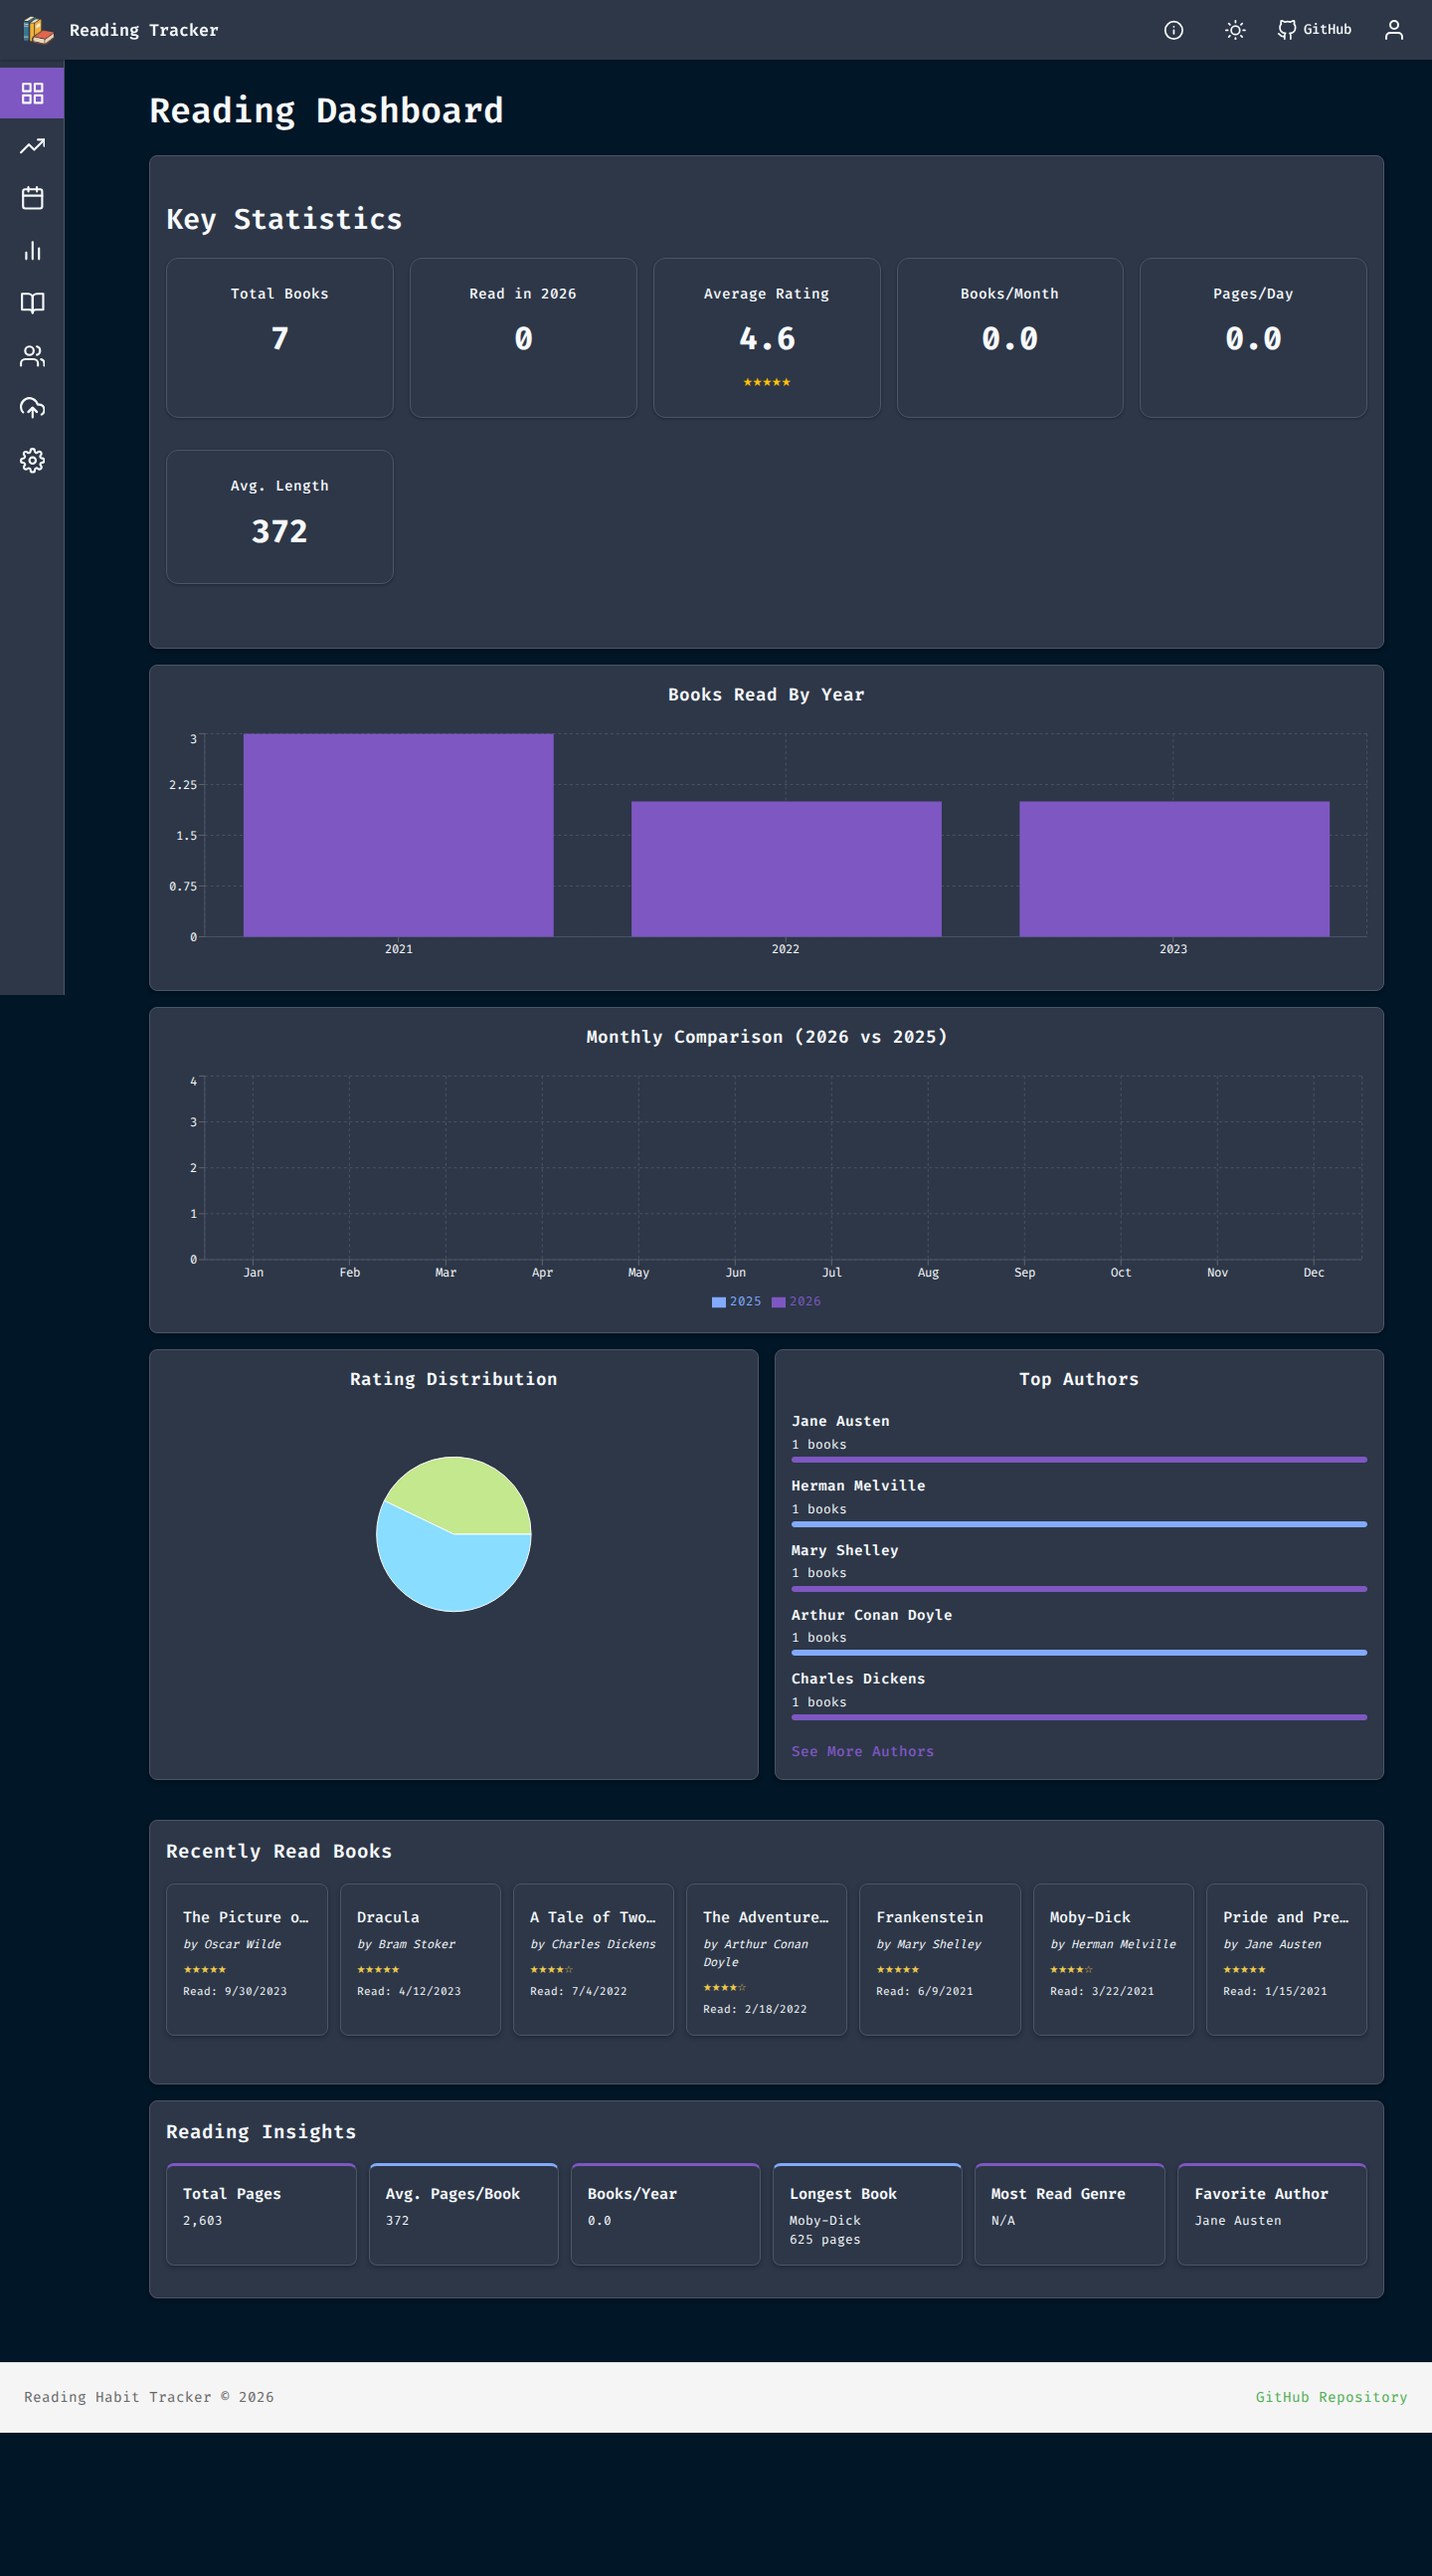
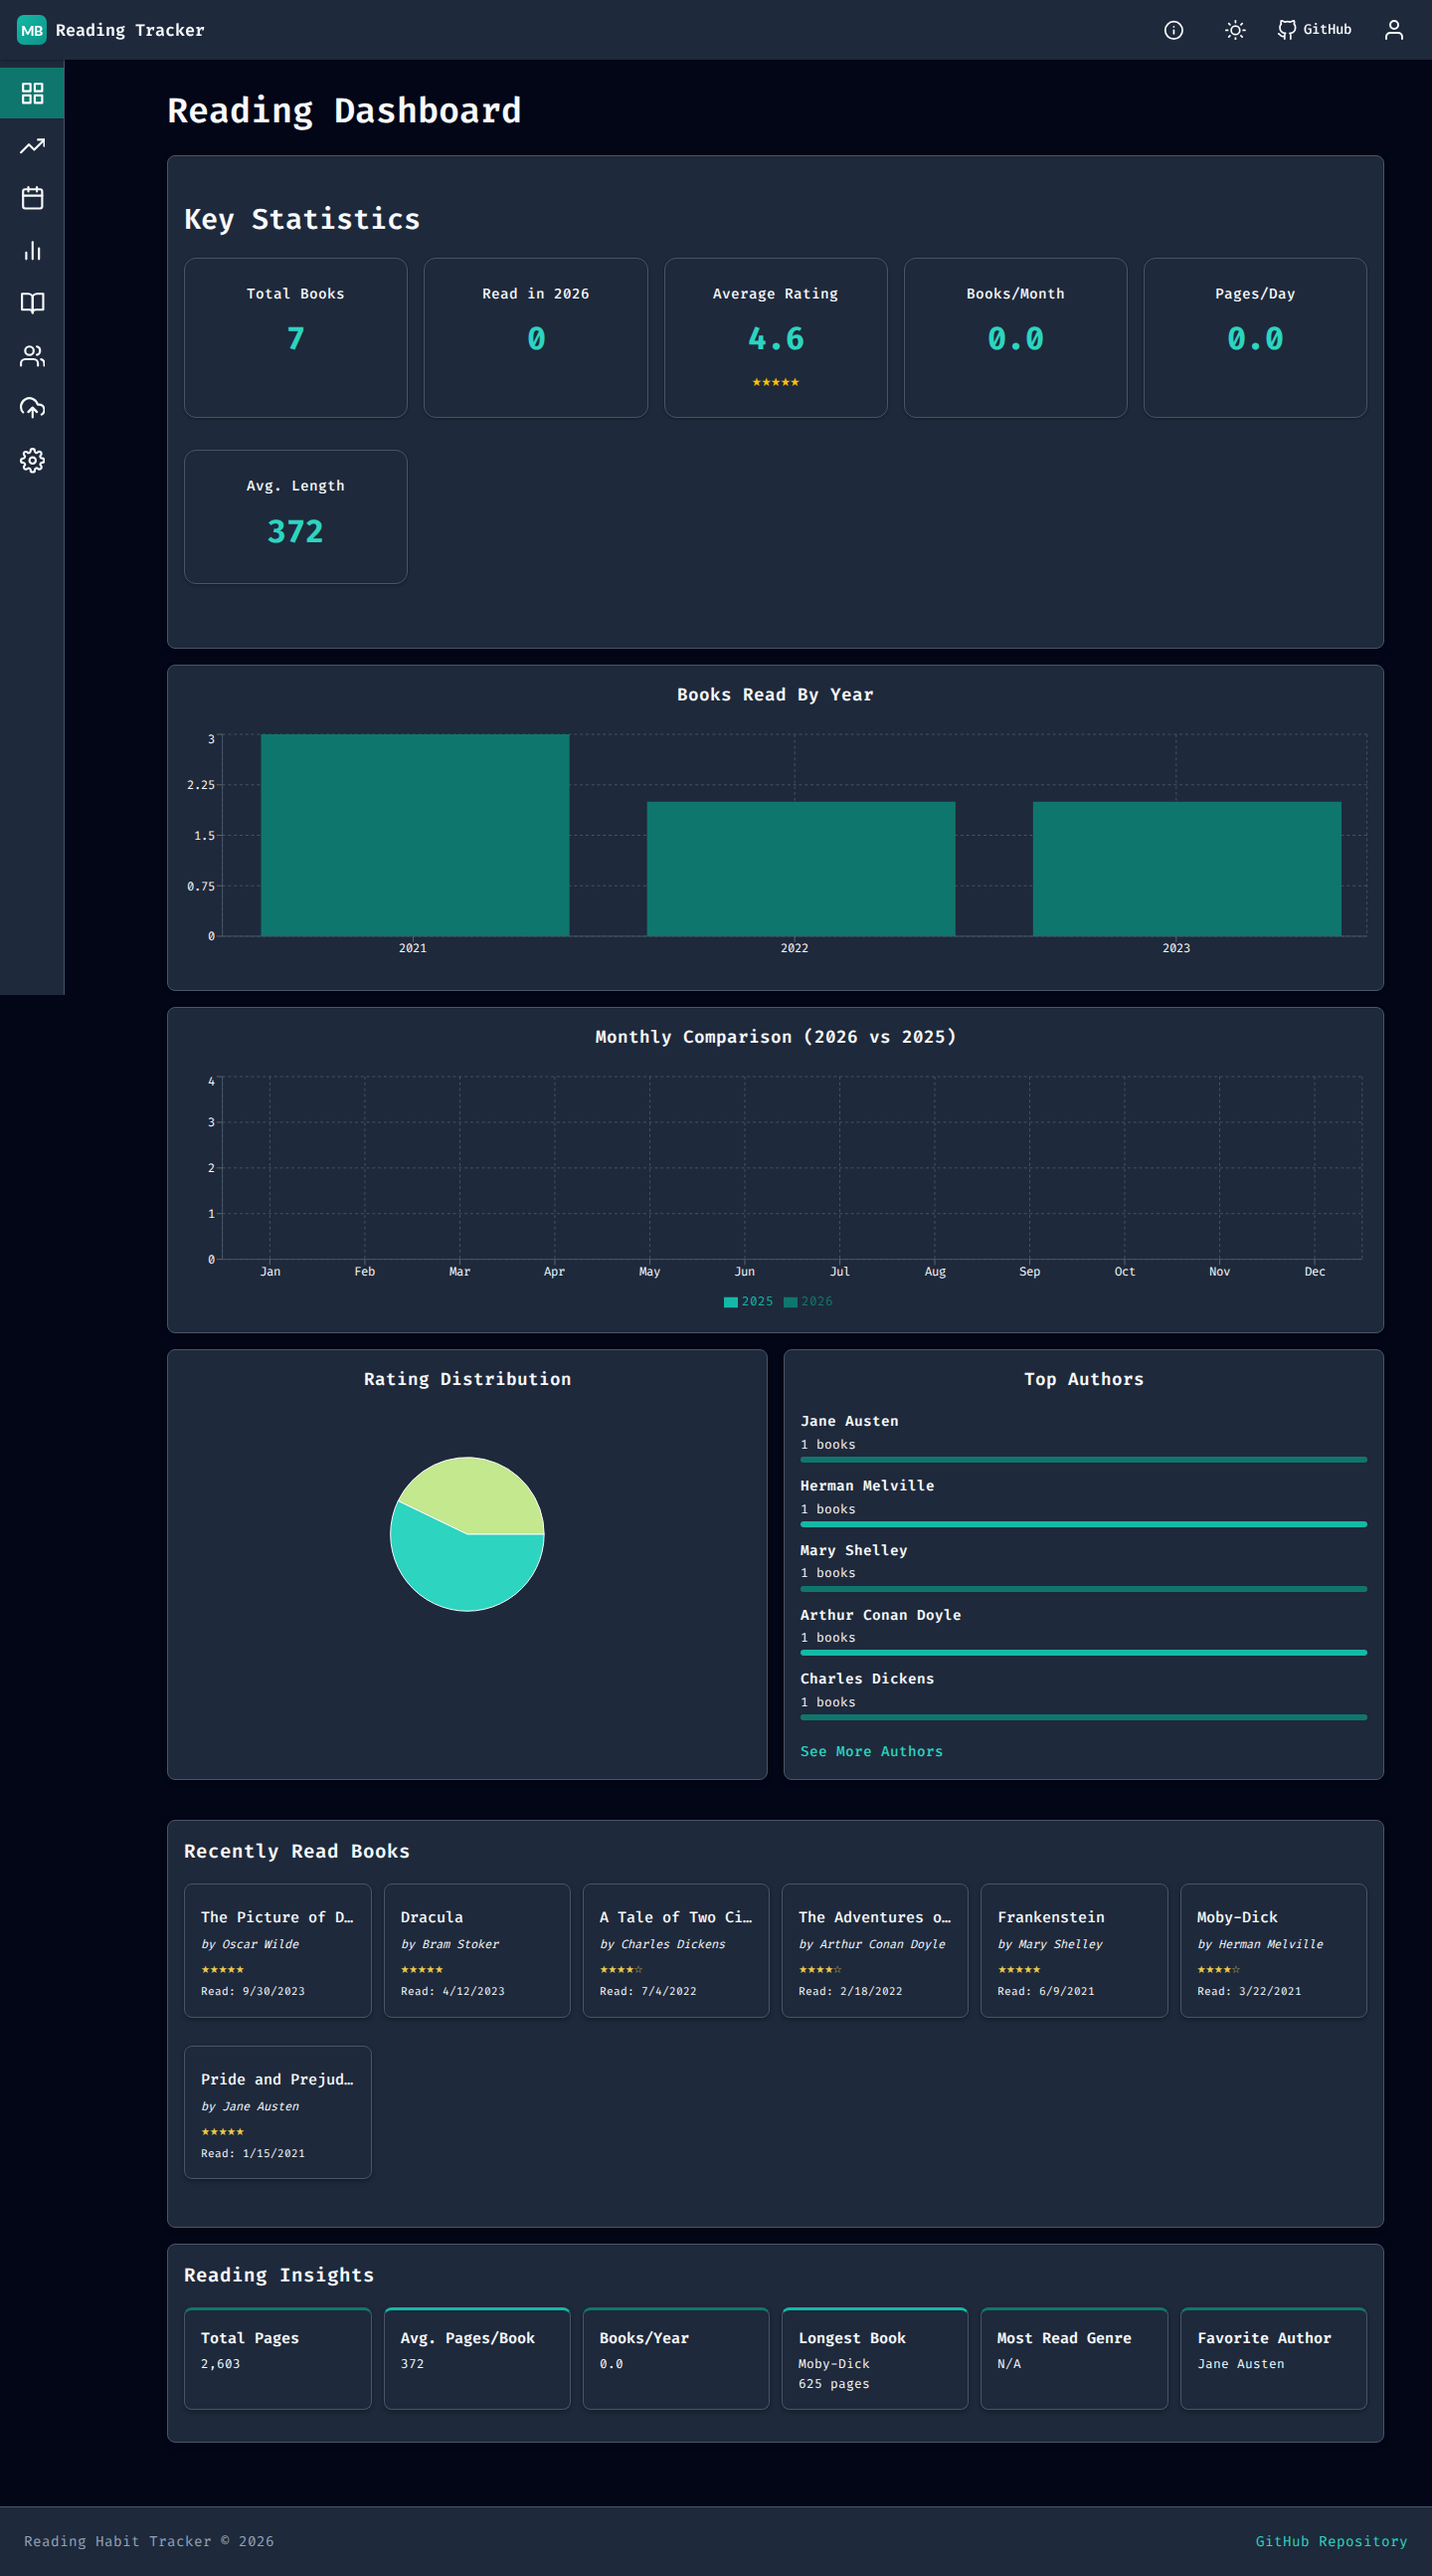
docs: recapture README screenshots in the teal UI
The three README images still showed the Night Owl purple theme. Recaptured
them from the synthetic Goodreads fixture with CAPTURE_SCREENSHOTS=1.

diff --git a/CHANGELOG.md b/CHANGELOG.md
@@ -8,6 +8,8 @@
   teal-400 links in dark mode, and teal-700 links in light mode.
 - Logo and favicons are the rounded teal tile with the MB mark
   (`#14B8A6` → `#0D9488`). `theme-color` is `#0D9488`.
+- README screenshots recaptured from the synthetic Goodreads fixture so the
+  dark dashboard, light dashboard, and monthly progress views show the teal UI.
 
 ## [1.3.0] - 2026-11-22
 
